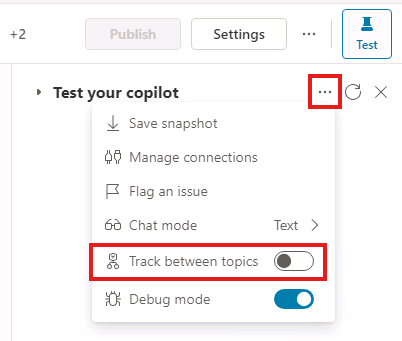
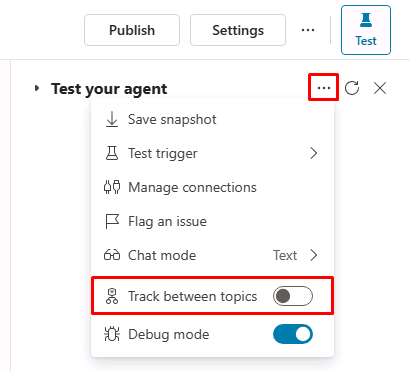
UI's changed since last updates. Instructions updated, replacement screenshots added.

diff --git a/Instructions/Labs/03-create-copilot.md b/Instructions/Labs/03-create-copilot.md
@@ -43,29 +43,25 @@ In this exercise, you will access the Microsoft Copilot Studio portal, the Devel
 
 ### Task 1.2 – Create a copilot
 
-1. Select **Create** from the left navigation pane and select the **New copilot** tile.
+1. Select **Create** from the left navigation pane and select the **New agent** tile.
 
-    ![Create in CoPilot Studio portal.](../media/copilot-studio-create-tab.png)
-
-1. Select **Skip to configure**.
-
-    ![Create with prompt in CoPilot Studio portal.](../media/copilot-studio-create-with-prompt.png)
+    ![Create in CoPilot Studio portal.](../media/create-copilot-agent.png)
 
 1. In the **Name** text box, enter **`Real Estate Booking Service`**
-
-    ![Details pane in CoPilot Studio portal.](../media/copilot-studio-create-details.png)
 
 1. In the **Description** text box, enter **`Create bookings for real estate properties`**
 
 1. In the **Instructions** text box, enter **`Create a copilot for topics relating to creating bookings for real estate properties`**
 
-1. In the right pane, **Language** should be set to **English (en-US)**.
+1. At the top, **Language** should be set to **English (en-US)**.
 
-1. Select the **three dots** next to the **Create** button in the upper-right of the screen and select **Edit advanced settings**.
+    ![CoPilot agent language.](../media/copilot-agent-language.png)
 
-    ![More options in CoPilot Studio portal.](../media/copilot-studio-more-options.png)
+1. Select the **three dots** in the upper-right of the page and select **Edit advanced settings**.
 
-1. Select the **Bookings** solution.
+    ![More options in CoPilot Studio portal.](../media/copilot-studio-more-options-2.png)
+
+1. Select **Bookings** under **Solution**.
 
 1. Enter `labcopilot` for **Schema Name**.
 
@@ -75,9 +71,7 @@ In this exercise, you will access the Microsoft Copilot Studio portal, the Devel
 
 1. In the upper-right of the screen, select **Create**.
 
-    ![Custom copilot in CoPilot Studio portal.](../media/copilot-studio-copilot.png)
-
-1. In the right **Test your copilot** pane, enter **`How do I make a booking?`**. View the response.
+1. In the right **Test your agent** pane, enter **`How do I make a booking?`**. View the response.
 
 Leave this window open.
 
@@ -87,7 +81,7 @@ In this exercise, you will access the Microsoft Copilot Studio portal and add kn
 
 ### Task 2.1 – Enable Generative AI answers
 
-1. In the **Knowledge** section of the **Overview** tab, ensure that **Allow the AI to use its own general knowledge** is set to **Enabled**.
+1. In the **Overview** tab, ensure that **Allow the AI to use its own general knowledge** is set to **Enabled** within the **Knowledge** section.
 
     ![Knowledge enabled in CoPilot Studio portal.](../media/knowledge-enabled.png)
 
@@ -115,13 +109,13 @@ In this exercise, you will access the Microsoft Copilot Studio portal and add kn
 
     ![Custom copilot in CoPilot Studio portal.](../media/copilot-studio-copilot2.png)
 
-1. Select the **three dots** at the top of the **Test your copilot** pane.
+1. Select the **three dots** at the top of the **Test your agent** pane.
 
 1. Enable **Track between topics**.
 
     ![Screenshot of the Testing panel options.](../media/test-pane-options.png)
 
-1. At the top of the **Test your copilot** pane, select the  **Start a new conversation** icon (refresh icon) next to the **X**.
+1. At the top of the **Test your agent** pane, select the  **Start a new conversation** icon (refresh icon) next to the **X**.
 
     ![Screenshot of the Testing panel options.](../media/copilot-test-pane-start-new-conversation.png)
 
